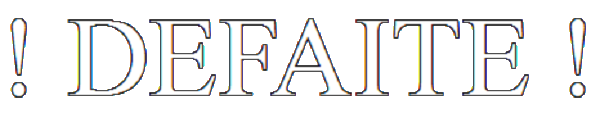
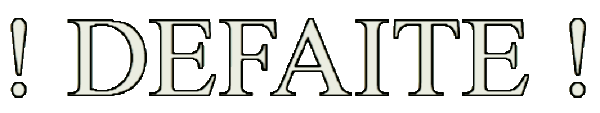
Gravity : 	- Ajout victoire / défaite 	- Ajustement de la collision 	- Ajout du GameState

diff --git a/src/nebula/minigame/gravity/Gravity.java b/src/nebula/minigame/gravity/Gravity.java
@@ -6,6 +6,7 @@ import nebula.minigame.Minigame;
 import org.newdawn.slick.GameContainer;
 import org.newdawn.slick.Graphics;
 import org.newdawn.slick.Image;
+import org.newdawn.slick.Input;
 import org.newdawn.slick.SlickException;
 import org.newdawn.slick.state.StateBasedGame;
 
@@ -79,20 +80,29 @@ public class Gravity extends Minigame {
 		// Call super method
 		super.render(gameContainer, stateBasedGame, g);
 
+		
+		
+		
+		//// Default
+		// Render Map
+		modeleJeu.getMap().getTiledMap().render(mapRender[0]*60+mapRender[2], mapRender[1]*60+mapRender[3]);
 
-		// Vérification
+		// Render Hero
+		g.drawAnimation(modeleJeu.getHero().getAnimation(), modeleJeu.getHero().getX()+mapRender[0]*60+mapRender[2], modeleJeu.getHero().getY()+mapRender[1]*60+mapRender[3]);
 
+		// Render Vie
+		for(int i = 0; i < modeleJeu.getHero().getNbrVies(); i++) {
+			coeur.draw(10 + i * coeur.getWidth(),gameContainer.getHeight() - coeur.getHeight());
+		}
+		
+
+		// Affichage de l'image en fonction de l'état
 		switch(etatActuel) {
 		case DEPLACEMENT_MAP:
 
 			int newRender[] = modeleJeu.renderMap();
 			boolean stop = false;
 
-			if(!out) {
-				System.out.println("*G*newR "+newRender[0]);
-				System.out.println("*G*oldR"+mapRender[0]+"\n_____\n");
-				out = true;
-			}
 			int vitesseDeplacement = 2;
 			// Traitement des X
 			if(newRender[0]*60 < mapRender[0]*60+mapRender[2]) {
@@ -120,33 +130,26 @@ public class Gravity extends Minigame {
 			
 			if(stop) {
 				etatActuel = EtatJeu.DEPLACEMENT_JOUEUR;
-			} else {
-				System.out.println("*G*"+mapRender[2]+" "+mapRender[3]);
 			}
 			break;
 
 		case VICTOIRE:
-			victoire.draw(100, 250);
+			victoire.draw((gameContainer.getWidth() - victoire.getWidth())/2 , (gameContainer.getHeight() - victoire.getHeight())/2);
 			break;
 
 		case DEFAITE:
-			defaite.draw(100,250);
+			defaite.draw((gameContainer.getWidth() - defaite.getWidth())/2 , (gameContainer.getHeight() - defaite.getHeight())/2);
+			break;
+			
+		case DEPLACEMENT_JOUEUR:
+			// On vérifie si on a atteint un des états final
+			if(modeleJeu.getDefaite()) etatActuel = EtatJeu.DEFAITE;
+			if(modeleJeu.getVictoire()) etatActuel = EtatJeu.VICTOIRE;
 			break;
 
 		}
 
 
-		//// Default
-		// Render Map
-		modeleJeu.getMap().getTiledMap().render(mapRender[0]*60+mapRender[2], mapRender[1]*60+mapRender[3]);
-
-		// Render Hero
-		g.drawAnimation(modeleJeu.getHero().getAnimation(), modeleJeu.getHero().getX()+mapRender[0]*60+mapRender[2], modeleJeu.getHero().getY()+mapRender[1]*60+mapRender[3]);
-
-		// Render Vie
-		for(int i = 0; i < modeleJeu.getHero().getNbrVies(); i++) {
-			coeur.draw(10 + i * coeur.getWidth(), gameContainer.getHeight() - coeur.getHeight());
-		}
 
 	} // *** Fin Render ***
 
@@ -168,6 +171,11 @@ public class Gravity extends Minigame {
 			modeleJeu.getHero().incStill();
 			if(deplacementMap()) etatActuel = EtatJeu.DEPLACEMENT_MAP;
 			break;
+		case DEFAITE: case VICTOIRE:
+			if(gameContainer.getInput().isKeyDown(Input.KEY_ENTER)) {
+				modeleJeu.arreterSon();
+				gotoNextState();
+			}
 		}
 	}
 

diff --git a/src/nebula/minigame/gravity/ModeleJeu.java b/src/nebula/minigame/gravity/ModeleJeu.java
@@ -20,6 +20,7 @@ public class ModeleJeu {
 	private boolean victoire;
 
 	// Ensemble des sons
+	private Sound sonEnCours;
 	private Sound sonJump;
 	private Sound sonDomage;
 	private Sound sonVictoire;
@@ -53,8 +54,9 @@ public class ModeleJeu {
 		try {
 			sonJump = new Sound(dossierSon+"jump.wav");
 			sonDomage = new Sound(dossierSon+"hurt.wav");
-			sonVictoire = new Sound(dossierSon+"defaite.wav");
-			sonDefaite = new Sound(dossierSon+"victoire.wav");
+			sonVictoire = new Sound(dossierSon+"victoire.wav");
+			sonDefaite = new Sound(dossierSon+"defaite.wav");
+		
 		} catch (SlickException e) {
 			// TODO Auto-generated catch block
 			e.printStackTrace();
@@ -68,14 +70,12 @@ public class ModeleJeu {
 		// Nombre de Tiles affichées
 		this.shownTileY = shownPixelsY/tileHeight;
 		this.shownTileX = shownPixelsX/tileWidth;
-		System.out.println("*MJ*ShownTileInit : "+shownTileX+" "+shownTileY);
+
 		int heroY = (int) hero.getPosition().getY()/tileHeight;
 		int heroX = (int) hero.getPosition().getX()/tileWidth;
 		
 		mapRenderX = (int) (heroX / shownTileX * shownTileX);
 		mapRenderY = (int) (heroY / shownTileY * shownTileY);
-
-		System.out.println("*MJ*MapRenderInit : "+mapRenderX+" "+mapRenderY);
 	}
 
 	public Player getHero() {
@@ -112,7 +112,6 @@ public class ModeleJeu {
 
 	public boolean getDefaite() {
 		if(hero.getNbrVies()<=0) {
-			System.out.println("*MJ* Get Defaite");
 			return true;
 		}
 		return false;
@@ -230,22 +229,32 @@ public class ModeleJeu {
 	/////////////////////////////////////////////
 
 	private void victoire() {
-		// TODO Modifier le controleur (désactivé le controleur de jeu)
-		
+		sonVictoire.play();
+		sonEnCours = sonVictoire;
+		setFin(true);
+		setVictoire(true);
 	}
 
 	private void mort() {
-		//TODO Rajouter une animation spéciale
-		hero.setPosition((Point)map.getDepart().clone());
-		if(hero.getNbrVies()>0) {
+		if(hero.getNbrVies()>1) {
+			hero.setPosition((Point)map.getDepart().clone());
 			hero.domage();
 			sonDomage.play();
+			sonEnCours = sonDomage;
 		}
-		else {
+		else if(hero.getNbrVies()==1) {
+			hero.domage();
+			sonDomage.play();
+			sonEnCours = sonDomage;
+			sonDefaite.play();
+			sonEnCours = sonDefaite;
 			setFin(true);
 		}
 	}
 
+	public void arreterSon() {
+		if(sonEnCours.playing()) sonEnCours.stop();
+	}
 
 
 

diff --git a/src/nebula/core/NebulaGame.java b/src/nebula/core/NebulaGame.java
@@ -4,6 +4,7 @@ import java.awt.Toolkit;
 
 import nebula.core.state.*;
 import nebula.minigame.breakout.Breakout;
+import nebula.minigame.gravity.Gravity;
 import nebula.minigame.spaceInvaders.SpaceInvaders;
 
 import org.newdawn.slick.AppGameContainer;
@@ -41,6 +42,7 @@ public class NebulaGame extends StateBasedGame
         Jubba                   (16),
         Breakout                (17),
         Fin                     (18),
+        Gravity	(100),
         Score				(-1);
         
         public int value;
@@ -77,6 +79,7 @@ public class NebulaGame extends StateBasedGame
 		this.addState(new Jubba());
 		this.addState(new Breakout());
 		this.addState(new Fin());
+		this.addState(new Gravity(StateID.Gravity.value));
 		
 		//Score
 		this.addState(new StateScore());

diff --git a/src/nebula/minigame/gravity/Player.java b/src/nebula/minigame/gravity/Player.java
@@ -90,13 +90,13 @@ public class Player {
 	public Point[] getBordGauche() {
 		Point p[] = {(Point) position.clone(),(Point) position.clone()};
 		p[0].translate(2f, 2f);
-		p[1].translate(2f, Sprite.HAUTEUR.getValue()-2f);
+		p[1].translate(2f, Sprite.HAUTEUR.getValue()-3f);
 		return p;
 	}
 	public Point[] getBordDroit() {
 		Point p[] = {(Point) position.clone(),(Point) position.clone()};
 		p[0].translate(Sprite.LARGEUR.getValue()-2f, 2f);
-		p[1].translate(Sprite.LARGEUR.getValue()-2f, Sprite.HAUTEUR.getValue()-2f);
+		p[1].translate(Sprite.LARGEUR.getValue()-2f, Sprite.HAUTEUR.getValue()-3f);
 		return p;
 	}
 	public Point[] getBordHaut() {

diff --git a/src/nebula/core/state/MainMenuState.java b/src/nebula/core/state/MainMenuState.java
@@ -101,10 +101,13 @@ public class MainMenuState extends BasicGameState
 				menu = s;
 				labelSelectionne = 0;
 			}
+			// Si on a selectionné un jeu
 			else if("breakout".equalsIgnoreCase(texte))
 				stateChange = StateID.Breakout.value;
 			else if("spaceinvaders".equalsIgnoreCase(texte))
 				stateChange = StateID.SpaceInvaders.value;
+			else if("gravity".equalsIgnoreCase(texte))
+				stateChange = StateID.Gravity.value;
 			else if("scores du jeu".equalsIgnoreCase(texte)){
 				String[] s={"Retour",Player.load(playerName).toString()};
 				menu=s;
